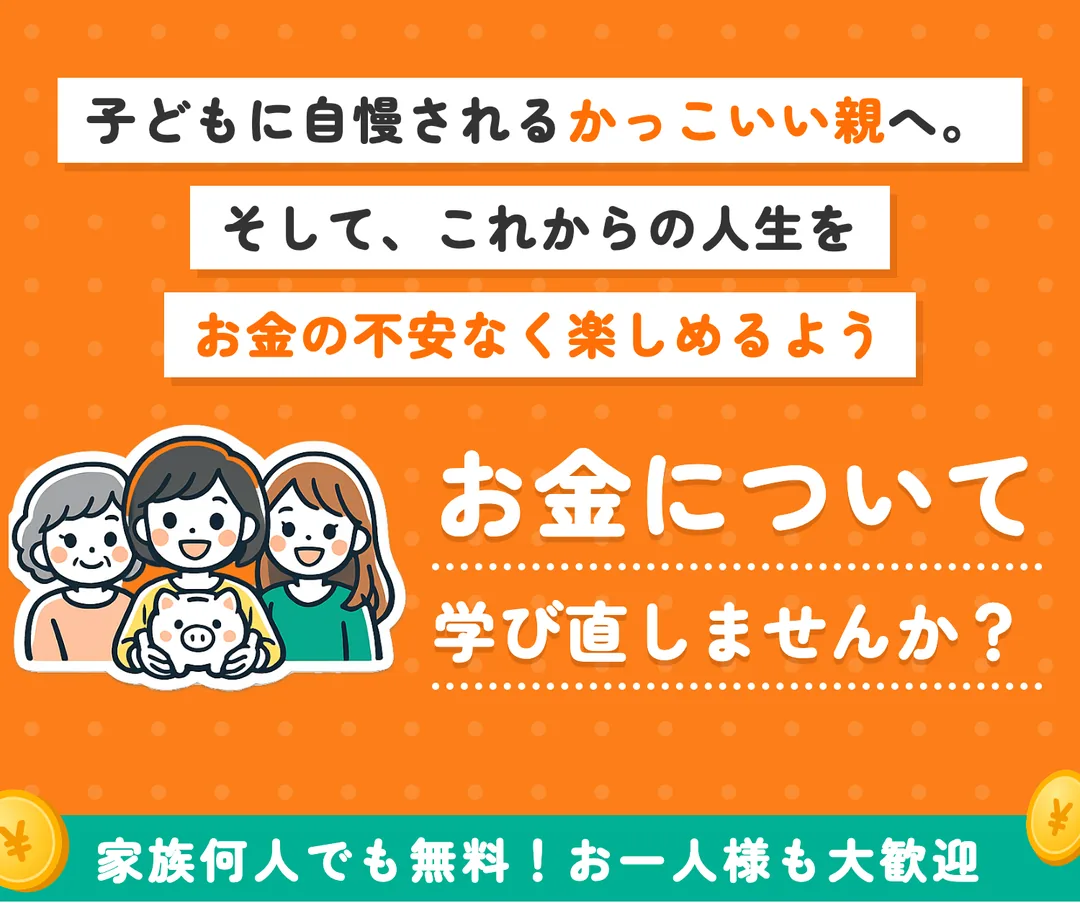
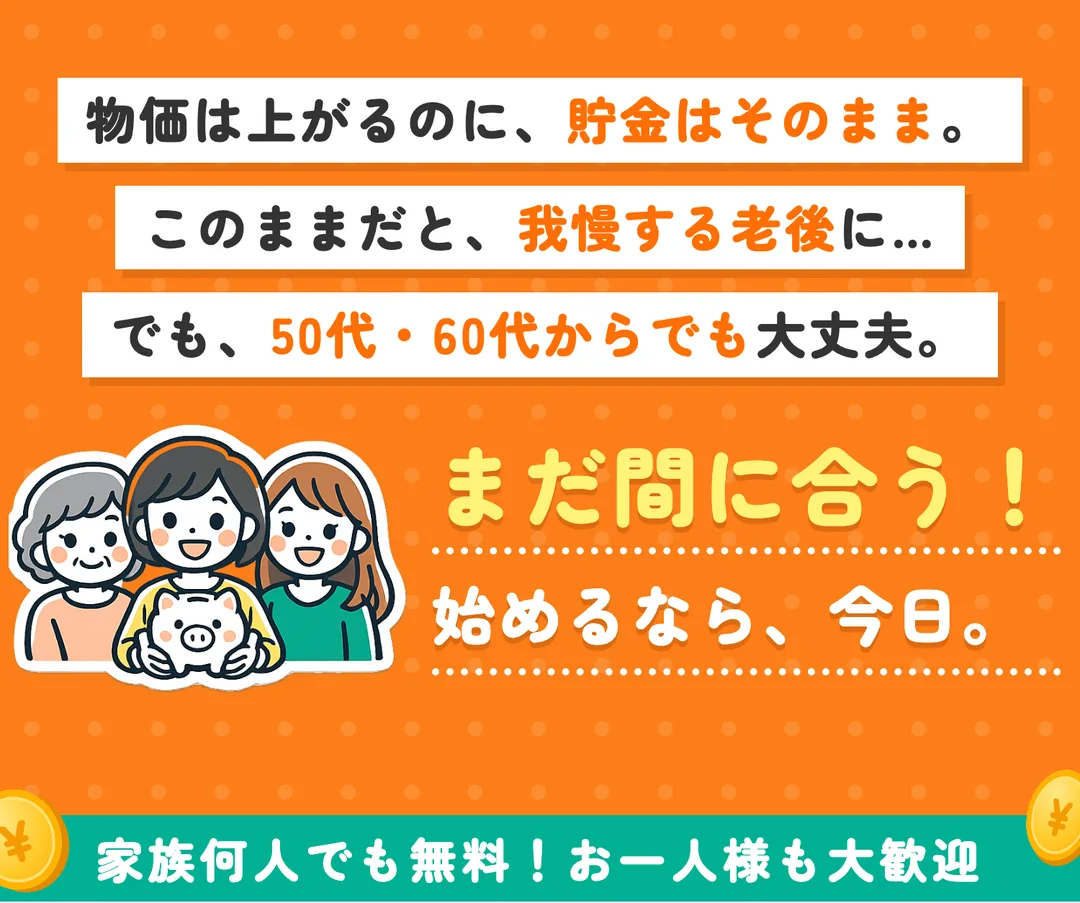
lp-old: 最後の段を「まだ間に合う！」の後押しに

Changed region(s): [[0.3972, 0.4961, 0.9778, 0.7752], [0.0611, 0.186, 0.9472, 0.4341], [0.0611, 0.093, 0.8861, 0.186]]

diff --git a/lp-old/index.html b/lp-old/index.html
@@ -92,7 +92,7 @@ footer p{margin:0}
 </div>
 <img class="s" src="img/15_dochira.webp" width="1080" height="1931" loading="lazy" decoding="async" alt="あなたはどちらを選びますか？／正しい知識を持ってコツコツ育てて／お金に不安を抱えたまま／子どもに自慢されるかっこいい親になる／やりたいことを我慢し続ける老後になる">
 <img class="s" src="img/16_koushi.webp" width="1080" height="3973" loading="lazy" decoding="async" alt="［写真：ホワイトボードの前で話す講師］LECTURER講師紹介／PROFILE／森川満章fulfull株式会社代表／1986年生まれ、岩手出身、横浜在住。3児の父／大手金融会社の認定講師、商工会議所のビジネスアドバイザー／音声アプリVoicy「ふるふるラジオ」を毎朝配信／これまでの登壇先（一部）／大手証券会社／大手ハウスメーカー／大手金融会社／小学校・中学校／講演・授業でも、この勉強会でも、商品のご案内はしていません。／MESSAGE同じ悔しさを、ひとりでも減らしたい。／僕は30歳まで、お金のことをほとんど勉強せず、貯金もないような状態でした。バスケを習っていた息子に「プロになりたい、海外に行きたい」と言われたとき、そのお金の余裕がなく、「諦めて」と言うしかなかった。その夜、「なんてかっこ悪いんだろう」と、人生でいちばん自分がみじめになりました。そこからお金のことをゼロから学び直して、暮らしも、家族との会話も変わりました。同じ悔しさを、ひとりでも減らしたい。それが、この会を無料で続けている理由です。むずかしい言葉は使いません。はじめてでも、途中からでも、大丈夫です。／Voicy「ふるふるラジオ」毎朝配信／YouTube「ふるふるチャンネル」／Instagram@morikawa_fulfull">
-<img class="s" src="img/17_saigo.webp" width="1080" height="903" loading="lazy" decoding="async" alt="子どもに自慢されるかっこいい親へ。そして、これからの人生をお金の不安なく楽しめるよう／お金について学び直しませんか？／家族何人でも無料！お一人様も大歓迎">
+<img class="s" src="img/17_saigo.webp" width="1080" height="903" loading="lazy" decoding="async" alt="物価は上がるのに、貯金はそのまま。このままだと、我慢する老後に…でも、50代・60代からでも大丈夫。／まだ間に合う！始めるなら、今日。／家族何人でも無料！お一人様も大歓迎">
 <div class="cta" id="cta5">
   <i class="coin c1"></i><i class="coin c2"></i><i class="coin c3"></i><i class="coin c4"></i>
   <a class="btn js-line" href="https://utage-system.com/line/open/X4Z2lketpu30?mtid=Us2bWvI6KlNU"><span class="pill">無料・Zoom・1時間</span><span class="main">LINEで日程を受け取る</span><span class="sub">顔出し不要・1回1〜3名・スマホでOK</span><span class="arr"></span></a>
